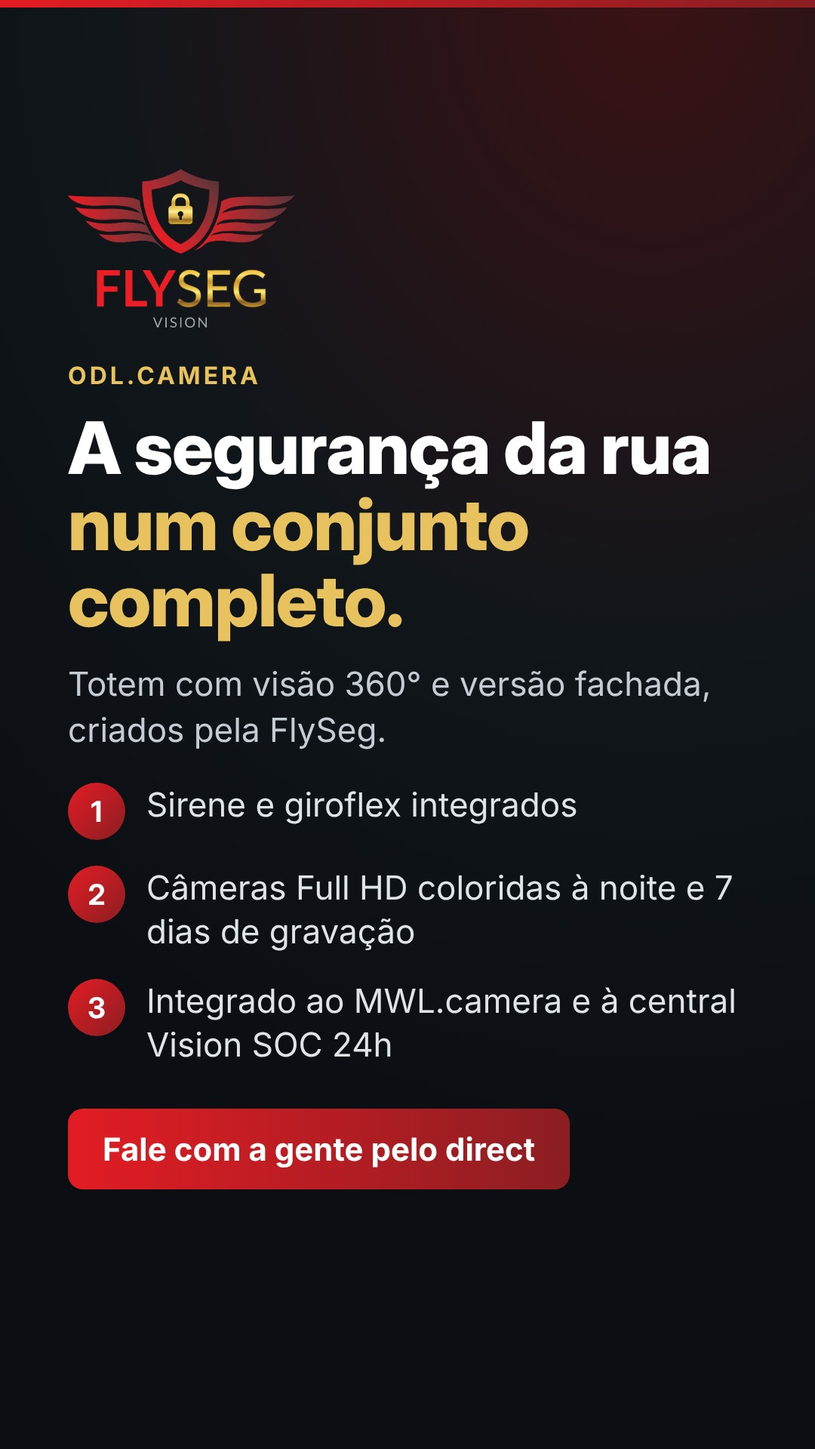
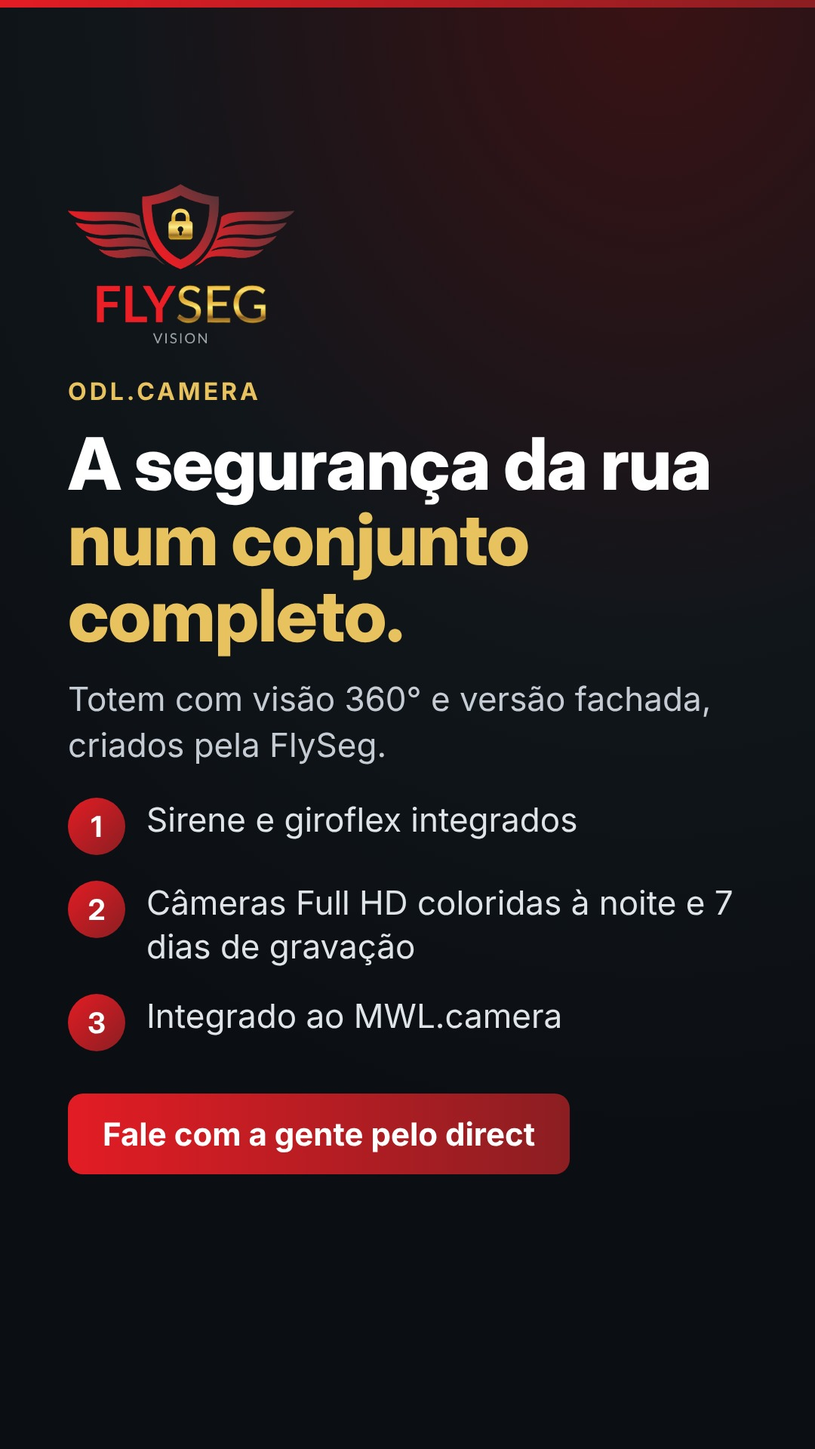
FlySeg: posts e destaques sem monitoramento e sem central (PVS, ODL, destaques)
Claude-Session: https://claude.ai/code/session_013wqKux7qHbRAJMaH62mhbc

Changed region(s): [[0.0611, 0.0938, 0.9167, 0.8438]]

diff --git a/social-flyseg/2026-11-seguranca-colaborativa/story.html b/social-flyseg/2026-11-seguranca-colaborativa/story.html
@@ -8,4 +8,4 @@ ol{list-style:none;display:flex;flex-direction:column}
 li{display:flex;align-items:flex-start;color:#dfe4e9;line-height:1.32}
 li b{border-radius:50%;background:linear-gradient(135deg,#e31c24,#8b1e22);display:flex;align-items:center;justify-content:center;color:#fff;font-family:'Inter Display';flex-shrink:0}
 .ft{position:absolute;display:flex;justify-content:space-between;align-items:center;color:#7f8a94;border-top:2px solid rgba(255,255,255,.08)}.ft b{color:#fff}.ft .g{color:#e9c260;font-weight:700}body{width:1080px;height:1920px}.w{left:90px;right:90px;top:250px;bottom:370px;justify-content:center}.logo{width:300px}.eb{font-size:32px}h1{font-size:96px}.s{font-size:44px}
-ol{gap:34px}li{gap:28px;font-size:44px}li b{width:76px;height:76px;font-size:38px}.cta{margin-top:56px;align-self:flex-start;padding:28px 46px;border-radius:20px;background:linear-gradient(90deg,#e31c24,#8b1e22);font-size:42px;font-weight:700}</style></head><body><div class="bar"></div><div class="w"><img class="logo" src="file:///home/claude/flyseg-posts/logo.png"><div class="eb">Programa Vizinhança Segura</div><h1>Um cinturão digital <span>contra o crime.</span></h1><p class="s">Segurança colaborativa com o MWL.camera.</p><ol><li><b>1</b><span>As câmeras que você já tem entram na rede</span></li><li><b>2</b><span>Veja as câmeras compartilhadas pelos vizinhos num raio de 500 m</span></li><li><b>3</b><span>Ocorrências direto para a central Vision SOC 24h</span></li></ol><div class="cta">Fale com a gente pelo direct</div></div></body></html>
+ol{gap:34px}li{gap:28px;font-size:44px}li b{width:76px;height:76px;font-size:38px}.cta{margin-top:56px;align-self:flex-start;padding:28px 46px;border-radius:20px;background:linear-gradient(90deg,#e31c24,#8b1e22);font-size:42px;font-weight:700}</style></head><body><div class="bar"></div><div class="w"><img class="logo" src="file:///home/claude/flyseg-posts/logo.png"><div class="eb">Programa Vizinhança Segura</div><h1>Um cinturão digital <span>contra o crime.</span></h1><p class="s">Segurança colaborativa com o MWL.camera.</p><ol><li><b>1</b><span>As câmeras que você já tem entram na rede</span></li><li><b>2</b><span>Veja as câmeras compartilhadas pelos vizinhos num raio de 500 m</span></li><li><b>3</b><span>Instalação e integração pela FlySeg</span></li></ol><div class="cta">Fale com a gente pelo direct</div></div></body></html>

diff --git a/social-flyseg/2026-11-odl-camera/story.html b/social-flyseg/2026-11-odl-camera/story.html
@@ -8,4 +8,4 @@ ol{list-style:none;display:flex;flex-direction:column}
 li{display:flex;align-items:flex-start;color:#dfe4e9;line-height:1.32}
 li b{border-radius:50%;background:linear-gradient(135deg,#e31c24,#8b1e22);display:flex;align-items:center;justify-content:center;color:#fff;font-family:'Inter Display';flex-shrink:0}
 .ft{position:absolute;display:flex;justify-content:space-between;align-items:center;color:#7f8a94;border-top:2px solid rgba(255,255,255,.08)}.ft b{color:#fff}.ft .g{color:#e9c260;font-weight:700}body{width:1080px;height:1920px}.w{left:90px;right:90px;top:250px;bottom:370px;justify-content:center}.logo{width:300px}.eb{font-size:32px}h1{font-size:96px}.s{font-size:44px}
-ol{gap:34px}li{gap:28px;font-size:44px}li b{width:76px;height:76px;font-size:38px}.cta{margin-top:56px;align-self:flex-start;padding:28px 46px;border-radius:20px;background:linear-gradient(90deg,#e31c24,#8b1e22);font-size:42px;font-weight:700}</style></head><body><div class="bar"></div><div class="w"><img class="logo" src="file:///home/claude/flyseg-posts/logo.png"><div class="eb">ODL.camera</div><h1>A segurança da rua <span>num conjunto completo.</span></h1><p class="s">Totem com visão 360° e versão fachada, criados pela FlySeg.</p><ol><li><b>1</b><span>Sirene e giroflex integrados</span></li><li><b>2</b><span>Câmeras Full HD coloridas à noite e 7 dias de gravação</span></li><li><b>3</b><span>Integrado ao MWL.camera e à central Vision SOC 24h</span></li></ol><div class="cta">Fale com a gente pelo direct</div></div></body></html>
+ol{gap:34px}li{gap:28px;font-size:44px}li b{width:76px;height:76px;font-size:38px}.cta{margin-top:56px;align-self:flex-start;padding:28px 46px;border-radius:20px;background:linear-gradient(90deg,#e31c24,#8b1e22);font-size:42px;font-weight:700}</style></head><body><div class="bar"></div><div class="w"><img class="logo" src="file:///home/claude/flyseg-posts/logo.png"><div class="eb">ODL.camera</div><h1>A segurança da rua <span>num conjunto completo.</span></h1><p class="s">Totem com visão 360° e versão fachada, criados pela FlySeg.</p><ol><li><b>1</b><span>Sirene e giroflex integrados</span></li><li><b>2</b><span>Câmeras Full HD coloridas à noite e 7 dias de gravação</span></li><li><b>3</b><span>Integrado ao MWL.camera</span></li></ol><div class="cta">Fale com a gente pelo direct</div></div></body></html>

diff --git a/social-flyseg/2026-11-seguranca-colaborativa/resumo.html b/social-flyseg/2026-11-seguranca-colaborativa/resumo.html
@@ -8,4 +8,4 @@ ol{list-style:none;display:flex;flex-direction:column}
 li{display:flex;align-items:flex-start;color:#dfe4e9;line-height:1.32}
 li b{border-radius:50%;background:linear-gradient(135deg,#e31c24,#8b1e22);display:flex;align-items:center;justify-content:center;color:#fff;font-family:'Inter Display';flex-shrink:0}
 .ft{position:absolute;display:flex;justify-content:space-between;align-items:center;color:#7f8a94;border-top:2px solid rgba(255,255,255,.08)}.ft b{color:#fff}.ft .g{color:#e9c260;font-weight:700}body{width:1080px;height:1350px}.w{left:90px;right:90px;top:90px;bottom:170px;justify-content:center}.eb{font-size:28px}h1{font-size:78px}.s{font-size:38px}
-ol{gap:28px}li{gap:26px;font-size:38px}li b{width:64px;height:64px;font-size:32px}.ft{left:90px;right:90px;bottom:60px;padding-top:24px;font-size:28px}</style></head><body><div class="bar"></div><div class="w"><img class="logo" src="file:///home/claude/flyseg-posts/logo.png"><div class="eb">Programa Vizinhança Segura</div><h1>Um cinturão digital <span>contra o crime.</span></h1><p class="s">Segurança colaborativa com o MWL.camera.</p><ol><li><b>1</b><span>As câmeras que você já tem entram na rede</span></li><li><b>2</b><span>Veja as câmeras compartilhadas pelos vizinhos num raio de 500 m</span></li><li><b>3</b><span>Ocorrências direto para a central Vision SOC 24h</span></li></ol></div><div class="ft"><span><b>FlySeg Vision</b> · Segurança colaborativa</span><span class="g">flyseg.vision</span></div></body></html>
+ol{gap:28px}li{gap:26px;font-size:38px}li b{width:64px;height:64px;font-size:32px}.ft{left:90px;right:90px;bottom:60px;padding-top:24px;font-size:28px}</style></head><body><div class="bar"></div><div class="w"><img class="logo" src="file:///home/claude/flyseg-posts/logo.png"><div class="eb">Programa Vizinhança Segura</div><h1>Um cinturão digital <span>contra o crime.</span></h1><p class="s">Segurança colaborativa com o MWL.camera.</p><ol><li><b>1</b><span>As câmeras que você já tem entram na rede</span></li><li><b>2</b><span>Veja as câmeras compartilhadas pelos vizinhos num raio de 500 m</span></li><li><b>3</b><span>Instalação e integração pela FlySeg</span></li></ol></div><div class="ft"><span><b>FlySeg Vision</b> · Segurança colaborativa</span><span class="g">flyseg.vision</span></div></body></html>

diff --git a/destaques-flyseg/story-odl-camera.html b/destaques-flyseg/story-odl-camera.html
@@ -9,4 +9,4 @@ p{font-size:44px;line-height:1.4;color:#c5ccd3;margin-bottom:44px}
 ul{list-style:none;display:flex;flex-direction:column;gap:24px}
 li{font-size:40px;line-height:1.3;padding:26px 32px;background:rgba(233,194,96,.07);border:2px solid rgba(233,194,96,.35);border-left:10px solid #e31c24;border-radius:22px;color:#eef1f4}
 .cta{margin-top:auto;font-size:40px;font-weight:700;color:#e9c260}
-</style></head><body><div class="bar"></div><div class="w"><img class="logo" src="file:///home/claude/flyseg-destaques/logo.png"><div class="ic"><svg width="100" height="100" viewBox="0 0 24 24" fill="none" stroke="#FFFFFF" stroke-width="1.6" stroke-linecap="round" stroke-linejoin="round"><path d="M16.75 12h3.632a1 1 0 0 1 .894 1.447l-2.034 4.069a1 1 0 0 1-1.708.134l-2.124-2.97"/><path d="M17.106 9.053a1 1 0 0 1 .447 1.341l-3.106 6.211a1 1 0 0 1-1.342.447L3.61 12.3a2.92 2.92 0 0 1-1.3-3.91L3.69 5.6a2.92 2.92 0 0 1 3.92-1.3z"/><path d="M2 19h3.76a2 2 0 0 0 1.8-1.1L9 15"/><path d="M2 21v-4"/><path d="M7 9h.01"/></svg></div><h1>ODL<span>.camera</span></h1><p>A segurança da rua num conjunto completo, criado pela FlySeg.</p><ul><li>Totem com visão 360° e versão fachada</li><li>Sirene e giroflex integrados</li><li>Full HD colorido à noite e 7 dias de gravação</li></ul><div class="cta">Fale com a gente pelo direct</div></div></body></html>
+</style></head><body><div class="bar"></div><div class="w"><img class="logo" src="file:///home/claude/flycomp-midia/brand/flyseg-logo.png"><div class="ic"><svg width="100" height="100" viewBox="0 0 24 24" fill="none" stroke="#FFFFFF" stroke-width="1.6" stroke-linecap="round" stroke-linejoin="round"><path d="M16.75 12h3.632a1 1 0 0 1 .894 1.447l-2.034 4.069a1 1 0 0 1-1.708.134l-2.124-2.97"/><path d="M17.106 9.053a1 1 0 0 1 .447 1.341l-3.106 6.211a1 1 0 0 1-1.342.447L3.61 12.3a2.92 2.92 0 0 1-1.3-3.91L3.69 5.6a2.92 2.92 0 0 1 3.92-1.3z"/><path d="M2 19h3.76a2 2 0 0 0 1.8-1.1L9 15"/><path d="M2 21v-4"/><path d="M7 9h.01"/></svg></div><h1>ODL<span>.camera</span></h1><p>A segurança da rua num conjunto completo, criado pela FlySeg.</p><ul><li>Totem com visão 360° e versão fachada</li><li>Sirene e giroflex integrados</li><li>Full HD colorido à noite e 7 dias de gravação</li></ul><div class="cta">Fale com a gente pelo direct</div></div></body></html>

diff --git a/social-flyseg/2026-11-odl-camera/resumo.html b/social-flyseg/2026-11-odl-camera/resumo.html
@@ -8,4 +8,4 @@ ol{list-style:none;display:flex;flex-direction:column}
 li{display:flex;align-items:flex-start;color:#dfe4e9;line-height:1.32}
 li b{border-radius:50%;background:linear-gradient(135deg,#e31c24,#8b1e22);display:flex;align-items:center;justify-content:center;color:#fff;font-family:'Inter Display';flex-shrink:0}
 .ft{position:absolute;display:flex;justify-content:space-between;align-items:center;color:#7f8a94;border-top:2px solid rgba(255,255,255,.08)}.ft b{color:#fff}.ft .g{color:#e9c260;font-weight:700}body{width:1080px;height:1350px}.w{left:90px;right:90px;top:90px;bottom:170px;justify-content:center}.eb{font-size:28px}h1{font-size:78px}.s{font-size:38px}
-ol{gap:28px}li{gap:26px;font-size:38px}li b{width:64px;height:64px;font-size:32px}.ft{left:90px;right:90px;bottom:60px;padding-top:24px;font-size:28px}</style></head><body><div class="bar"></div><div class="w"><img class="logo" src="file:///home/claude/flyseg-posts/logo.png"><div class="eb">ODL.camera</div><h1>A segurança da rua <span>num conjunto completo.</span></h1><p class="s">Totem com visão 360° e versão fachada, criados pela FlySeg.</p><ol><li><b>1</b><span>Sirene e giroflex integrados</span></li><li><b>2</b><span>Câmeras Full HD coloridas à noite e 7 dias de gravação</span></li><li><b>3</b><span>Integrado ao MWL.camera e à central Vision SOC 24h</span></li></ol></div><div class="ft"><span><b>FlySeg Vision</b> · Segurança colaborativa</span><span class="g">flyseg.vision</span></div></body></html>
+ol{gap:28px}li{gap:26px;font-size:38px}li b{width:64px;height:64px;font-size:32px}.ft{left:90px;right:90px;bottom:60px;padding-top:24px;font-size:28px}</style></head><body><div class="bar"></div><div class="w"><img class="logo" src="file:///home/claude/flyseg-posts/logo.png"><div class="eb">ODL.camera</div><h1>A segurança da rua <span>num conjunto completo.</span></h1><p class="s">Totem com visão 360° e versão fachada, criados pela FlySeg.</p><ol><li><b>1</b><span>Sirene e giroflex integrados</span></li><li><b>2</b><span>Câmeras Full HD coloridas à noite e 7 dias de gravação</span></li><li><b>3</b><span>Integrado ao MWL.camera</span></li></ol></div><div class="ft"><span><b>FlySeg Vision</b> · Segurança colaborativa</span><span class="g">flyseg.vision</span></div></body></html>

diff --git a/destaques-flyseg/story-vizinhanca-segura.html b/destaques-flyseg/story-vizinhanca-segura.html
@@ -9,4 +9,4 @@ p{font-size:44px;line-height:1.4;color:#c5ccd3;margin-bottom:44px}
 ul{list-style:none;display:flex;flex-direction:column;gap:24px}
 li{font-size:40px;line-height:1.3;padding:26px 32px;background:rgba(233,194,96,.07);border:2px solid rgba(233,194,96,.35);border-left:10px solid #e31c24;border-radius:22px;color:#eef1f4}
 .cta{margin-top:auto;font-size:40px;font-weight:700;color:#e9c260}
-</style></head><body><div class="bar"></div><div class="w"><img class="logo" src="file:///home/claude/flyseg-destaques/logo.png"><div class="ic"><svg width="100" height="100" viewBox="0 0 24 24" fill="none" stroke="#FFFFFF" stroke-width="1.6" stroke-linecap="round" stroke-linejoin="round"><path d="M16 21v-2a4 4 0 0 0-4-4H6a4 4 0 0 0-4 4v2"/><circle cx="9" cy="7" r="4"/><path d="M22 21v-2a4 4 0 0 0-3-3.87"/><path d="M16 3.13a4 4 0 0 1 0 7.75"/></svg></div><h1>Programa <span>Vizinhança Segura</span></h1><p>Um cinturão digital contra o crime, rua por rua.</p><ul><li>As câmeras que você já tem entram no MWL.camera</li><li>Veja as câmeras dos vizinhos num raio de 500 m</li><li>Ocorrências direto para a central Vision SOC 24h</li></ul><div class="cta">Fale com a gente pelo direct</div></div></body></html>
+</style></head><body><div class="bar"></div><div class="w"><img class="logo" src="file:///home/claude/flycomp-midia/brand/flyseg-logo.png"><div class="ic"><svg width="100" height="100" viewBox="0 0 24 24" fill="none" stroke="#FFFFFF" stroke-width="1.6" stroke-linecap="round" stroke-linejoin="round"><path d="M16 21v-2a4 4 0 0 0-4-4H6a4 4 0 0 0-4 4v2"/><circle cx="9" cy="7" r="4"/><path d="M22 21v-2a4 4 0 0 0-3-3.87"/><path d="M16 3.13a4 4 0 0 1 0 7.75"/></svg></div><h1>Programa <span>Vizinhança Segura</span></h1><p>Um cinturão digital contra o crime, rua por rua.</p><ul><li>As câmeras que você já tem entram no MWL.camera</li><li>Veja as câmeras dos vizinhos num raio de 500 m</li><li>Instalação e integração pela FlySeg</li></ul><div class="cta">Fale com a gente pelo direct</div></div></body></html>

diff --git a/destaques-flyseg/story-sobre.html b/destaques-flyseg/story-sobre.html
@@ -9,4 +9,4 @@ p{font-size:44px;line-height:1.4;color:#c5ccd3;margin-bottom:44px}
 ul{list-style:none;display:flex;flex-direction:column;gap:24px}
 li{font-size:40px;line-height:1.3;padding:26px 32px;background:rgba(233,194,96,.07);border:2px solid rgba(233,194,96,.35);border-left:10px solid #e31c24;border-radius:22px;color:#eef1f4}
 .cta{margin-top:auto;font-size:40px;font-weight:700;color:#e9c260}
-</style></head><body><div class="bar"></div><div class="w"><img class="logo" src="file:///home/claude/flyseg-destaques/logo.png"><div class="ic"><svg width="100" height="100" viewBox="0 0 24 24" fill="none" stroke="#FFFFFF" stroke-width="1.6" stroke-linecap="round" stroke-linejoin="round"><path d="M20 13c0 5-3.5 7.5-7.66 8.95a1 1 0 0 1-.67-.01C7.5 20.5 4 18 4 13V6a1 1 0 0 1 1-1c2 0 4.5-1.2 6.24-2.72a1.17 1.17 0 0 1 1.52 0C14.51 3.81 17 5 19 5a1 1 0 0 1 1 1z"/><path d="m9 12 2 2 4-4"/></svg></div><h1>Sobre a <span>FlySeg</span></h1><p>Segurança colaborativa de verdade.</p><ul><li>Pioneira na integração com o MWL.camera</li><li>Criadora do ODL.camera</li><li>Central Vision SOC 24h</li></ul><div class="cta">Fale com a gente pelo direct</div></div></body></html>
+</style></head><body><div class="bar"></div><div class="w"><img class="logo" src="file:///home/claude/flycomp-midia/brand/flyseg-logo.png"><div class="ic"><svg width="100" height="100" viewBox="0 0 24 24" fill="none" stroke="#FFFFFF" stroke-width="1.6" stroke-linecap="round" stroke-linejoin="round"><path d="M20 13c0 5-3.5 7.5-7.66 8.95a1 1 0 0 1-.67-.01C7.5 20.5 4 18 4 13V6a1 1 0 0 1 1-1c2 0 4.5-1.2 6.24-2.72a1.17 1.17 0 0 1 1.52 0C14.51 3.81 17 5 19 5a1 1 0 0 1 1 1z"/><path d="m9 12 2 2 4-4"/></svg></div><h1>Sobre a <span>FlySeg</span></h1><p>Segurança colaborativa de verdade.</p><ul><li>Pioneira na integração com o MWL.camera</li><li>Criadora do ODL.camera</li><li>Venda, instalação e locação</li></ul><div class="cta">Fale com a gente pelo direct</div></div></body></html>

diff --git a/destaques-flyseg/story-contato.html b/destaques-flyseg/story-contato.html
@@ -9,4 +9,4 @@ p{font-size:44px;line-height:1.4;color:#c5ccd3;margin-bottom:44px}
 ul{list-style:none;display:flex;flex-direction:column;gap:24px}
 li{font-size:40px;line-height:1.3;padding:26px 32px;background:rgba(233,194,96,.07);border:2px solid rgba(233,194,96,.35);border-left:10px solid #e31c24;border-radius:22px;color:#eef1f4}
 .cta{margin-top:auto;font-size:40px;font-weight:700;color:#e9c260}
-</style></head><body><div class="bar"></div><div class="w"><img class="logo" src="file:///home/claude/flyseg-destaques/logo.png"><div class="ic"><svg width="100" height="100" viewBox="0 0 24 24" fill="none" stroke="#FFFFFF" stroke-width="1.6" stroke-linecap="round" stroke-linejoin="round"><path d="M7.9 20A9 9 0 1 0 4 16.1L2 22Z"/></svg></div><h1>Fale com <span>a gente</span></h1><p>Atendimento comercial da FlySeg Vision.</p><ul><li>Direct aqui do Instagram</li><li>WhatsApp (11) 4283-7330</li><li>flyseg.vision</li></ul><div class="cta"></div></div></body></html>
+</style></head><body><div class="bar"></div><div class="w"><img class="logo" src="file:///home/claude/flycomp-midia/brand/flyseg-logo.png"><div class="ic"><svg width="100" height="100" viewBox="0 0 24 24" fill="none" stroke="#FFFFFF" stroke-width="1.6" stroke-linecap="round" stroke-linejoin="round"><path d="M7.9 20A9 9 0 1 0 4 16.1L2 22Z"/></svg></div><h1>Fale com <span>a gente</span></h1><p>Atendimento comercial da FlySeg Vision.</p><ul><li>Direct aqui do Instagram</li><li>WhatsApp (11) 4283-7330</li><li>flyseg.vision</li></ul><div class="cta"></div></div></body></html>

diff --git a/social-flyseg/2026-11-seguranca-colaborativa/slide4.html b/social-flyseg/2026-11-seguranca-colaborativa/slide4.html
@@ -23,4 +23,4 @@ ol li b{flex:0 0 74px;height:74px;border-radius:50%;background:linear-gradient(1
 .cta{display:inline-block;margin-top:50px;padding:26px 44px;border-radius:18px;background:linear-gradient(90deg,#e31c24,#8b1e22);font-size:40px;font-weight:700}
 .center{justify-content:center}
 </style></head><body><div class="bar"></div>
-<div class="wrap"><div class="eyebrow">Como funciona</div><h2>A rua conectada</h2><ol><li><b>1</b><span>As câmeras compartilhadas formam o <span class="gold">cinturão digital</span>.</span></li><li><b>2</b><span>Cada participante acompanha a rua num raio de 500 m.</span></li><li><b>3</b><span>As ocorrências vão para a central <span class="gold">Vision SOC</span>, que acompanha 24h e aciona as autoridades, sem alarde na vizinhança.</span></li></ol></div><div class="foot"><span><b>FlySeg Vision</b> · Segurança colaborativa</span><span class="sw">Arraste →&nbsp;&nbsp;4/6</span></div></body></html>
+<div class="wrap"><div class="eyebrow">Como funciona</div><h2>A rua conectada</h2><ol><li><b>1</b><span>As câmeras compartilhadas formam o <span class="gold">cinturão digital</span>.</span></li><li><b>2</b><span>Cada participante acompanha a rua num raio de 500 m.</span></li><li><b>3</b><span>A FlySeg instala e integra as câmeras ao <span class="gold">MWL.camera</span>, sem alarde na vizinhança.</span></li></ol></div><div class="foot"><span><b>FlySeg Vision</b> · Segurança colaborativa</span><span class="sw">Arraste →&nbsp;&nbsp;4/6</span></div></body></html>

diff --git a/social-flyseg/2026-11-odl-camera/slide4.html b/social-flyseg/2026-11-odl-camera/slide4.html
@@ -23,4 +23,4 @@ ol li b{flex:0 0 74px;height:74px;border-radius:50%;background:linear-gradient(1
 .cta{display:inline-block;margin-top:50px;padding:26px 44px;border-radius:18px;background:linear-gradient(90deg,#e31c24,#8b1e22);font-size:40px;font-weight:700}
 .center{justify-content:center}
 </style></head><body><div class="bar"></div>
-<div class="wrap"><div class="eyebrow">Na prática</div><h2>Resposta na hora.</h2><ol><li><b>1</b><span>O botão de emergência aciona sirene e giroflex no local.</span></li><li><b>2</b><span>A ocorrência entra no <span class="gold">MWL.camera</span> com a gravação anexada.</span></li><li><b>3</b><span>A central <span class="gold">Vision SOC</span> analisa 24h e aciona as autoridades.</span></li></ol></div><div class="foot"><span><b>FlySeg Vision</b> · Segurança colaborativa</span><span class="sw">Arraste →&nbsp;&nbsp;4/5</span></div></body></html>
+<div class="wrap"><div class="eyebrow">Na prática</div><h2>Resposta na hora.</h2><ol><li><b>1</b><span>O botão de emergência aciona sirene e giroflex no local.</span></li><li><b>2</b><span>A ocorrência entra no <span class="gold">MWL.camera</span> com a gravação anexada.</span></li><li><b>3</b><span>Você e seus vizinhos acompanham tudo pelo <span class="gold">celular</span>.</span></li></ol></div><div class="foot"><span><b>FlySeg Vision</b> · Segurança colaborativa</span><span class="sw">Arraste →&nbsp;&nbsp;4/5</span></div></body></html>

diff --git a/social-flyseg/2026-11-seguranca-colaborativa/slide6.html b/social-flyseg/2026-11-seguranca-colaborativa/slide6.html
@@ -23,4 +23,4 @@ ol li b{flex:0 0 74px;height:74px;border-radius:50%;background:linear-gradient(1
 .cta{display:inline-block;margin-top:50px;padding:26px 44px;border-radius:18px;background:linear-gradient(90deg,#e31c24,#8b1e22);font-size:40px;font-weight:700}
 .center{justify-content:center}
 </style></head><body><div class="bar"></div>
-<div class="wrap"><div class="center" style="display:flex;flex-direction:column;height:100%"><img class="logo big" src="file:///home/claude/flyseg-posts/logo.png"><h2>Coloque a sua rua no Vizinhança Segura.</h2><p class="t">Monitoramento eletrônico 24h, com quem entende do assunto.</p><span class="cta">Fale com a gente pelo direct</span></div></div><div class="foot"><span><b>FlySeg Vision</b> · Segurança colaborativa</span><span class="sw">6/6</span></div></body></html>
+<div class="wrap"><div class="center" style="display:flex;flex-direction:column;height:100%"><img class="logo big" src="file:///home/claude/flyseg-posts/logo.png"><h2>Coloque a sua rua no Vizinhança Segura.</h2><p class="t">Câmeras instaladas e integradas por quem entende do assunto.</p><span class="cta">Fale com a gente pelo direct</span></div></div><div class="foot"><span><b>FlySeg Vision</b> · Segurança colaborativa</span><span class="sw">6/6</span></div></body></html>

diff --git a/social-flyseg/gerar.py b/social-flyseg/gerar.py
@@ -39,15 +39,15 @@ POSTS = {
   f'<img class="logo" src="{LOGO}"><div class="eyebrow">Programa Vizinhança Segura</div><h1>Um cinturão digital <span class="gold">contra o crime.</span></h1><p class="sub">Segurança colaborativa com o MWL.camera, rua por rua.</p>',
   '<div class="eyebrow">Comece pelo que já existe</div><h2>As câmeras que você já tem entram na rede.</h2><p class="t">Sem trocar o seu equipamento: as câmeras da sua casa ou do seu comércio são integradas à plataforma <span class="gold">MWL.camera</span>.</p>',
   '<div class="eyebrow">Raio de 500 metros</div><h2>Veja a rua, não só a sua porta.</h2><p class="t">Quem participa acompanha as câmeras <span class="gold">compartilhadas pelos vizinhos</span> num raio de 500 m do seu endereço, não importa quem instalou cada uma.</p>',
-  '<div class="eyebrow">Como funciona</div><h2>A rua conectada</h2><ol><li><b>1</b><span>As câmeras compartilhadas formam o <span class="gold">cinturão digital</span>.</span></li><li><b>2</b><span>Cada participante acompanha a rua num raio de 500 m.</span></li><li><b>3</b><span>As ocorrências vão para a central <span class="gold">Vision SOC</span>, que acompanha 24h e aciona as autoridades, sem alarde na vizinhança.</span></li></ol>',
+  '<div class="eyebrow">Como funciona</div><h2>A rua conectada</h2><ol><li><b>1</b><span>As câmeras compartilhadas formam o <span class="gold">cinturão digital</span>.</span></li><li><b>2</b><span>Cada participante acompanha a rua num raio de 500 m.</span></li><li><b>3</b><span>A FlySeg instala e integra as câmeras ao <span class="gold">MWL.camera</span>, sem alarde na vizinhança.</span></li></ol>',
   '<div class="eyebrow">Placa Vizinhança Segura</div><h2>A rua avisa quem passa.</h2><p class="t">A placa <span class="gold">Vizinhança Segura</span> mostra que aquela rua faz parte do programa.</p><div class="card"><h3>Pioneira no MWL.camera</h3><p>E criadora do ODL.camera, o totem de segurança da rua.</p></div>',
-  f'<div class="center" style="display:flex;flex-direction:column;height:100%"><img class="logo big" src="{LOGO}"><h2>Coloque a sua rua no Vizinhança Segura.</h2><p class="t">Monitoramento eletrônico 24h, com quem entende do assunto.</p><span class="cta">Fale com a gente pelo direct</span></div>',
+  f'<div class="center" style="display:flex;flex-direction:column;height:100%"><img class="logo big" src="{LOGO}"><h2>Coloque a sua rua no Vizinhança Segura.</h2><p class="t">Câmeras instaladas e integradas por quem entende do assunto.</p><span class="cta">Fale com a gente pelo direct</span></div>',
  ],
  "odl-camera": [
   f'<img class="logo" src="{LOGO}"><div class="eyebrow">ODL.camera</div><h1>A segurança da rua <span class="gold">num conjunto completo.</span></h1><p class="sub">Totem e versão fachada criados pela FlySeg, integrados ao MWL.camera.</p>',
   '<div class="eyebrow">Duas versões</div><h2>Para a calçada e para a fachada.</h2><div class="card"><h3>Totem: visão 360°</h3><p>3 câmeras simultâneas e mais uma dedicada à calçada e aos portões.</p></div><div class="card"><h3>Fachada (box)</h3><p>2 câmeras com áudio bidirecional, no formato do seu imóvel.</p></div>',
   '<div class="eyebrow">Sempre no conjunto</div><h2>Feito para inibir.</h2><ol><li><b>1</b><span><span class="gold">Sirene e giroflex</span> integrados.</span></li><li><b>2</b><span>Câmeras <span class="gold">Full HD</span> que filmam colorido à noite.</span></li><li><b>3</b><span><span class="gold">7 dias</span> de gravação.</span></li><li><b>4</b><span>Iluminação âmbar à noite. Nobreak opcional.</span></li></ol>',
-  '<div class="eyebrow">Na prática</div><h2>Resposta na hora.</h2><ol><li><b>1</b><span>O botão de emergência aciona sirene e giroflex no local.</span></li><li><b>2</b><span>A ocorrência entra no <span class="gold">MWL.camera</span> com a gravação anexada.</span></li><li><b>3</b><span>A central <span class="gold">Vision SOC</span> analisa 24h e aciona as autoridades.</span></li></ol>',
+  '<div class="eyebrow">Na prática</div><h2>Resposta na hora.</h2><ol><li><b>1</b><span>O botão de emergência aciona sirene e giroflex no local.</span></li><li><b>2</b><span>A ocorrência entra no <span class="gold">MWL.camera</span> com a gravação anexada.</span></li><li><b>3</b><span>Você e seus vizinhos acompanham tudo pelo <span class="gold">celular</span>.</span></li></ol>',
   f'<div class="center" style="display:flex;flex-direction:column;height:100%"><img class="logo big" src="{LOGO}"><h2>Sem custo de equipamento.</h2><p class="t">Assinatura mensal com o conjunto completo instalado.</p><span class="cta">Fale com a gente pelo direct</span></div>',
  ],
  "vision-soc-integradores": [
